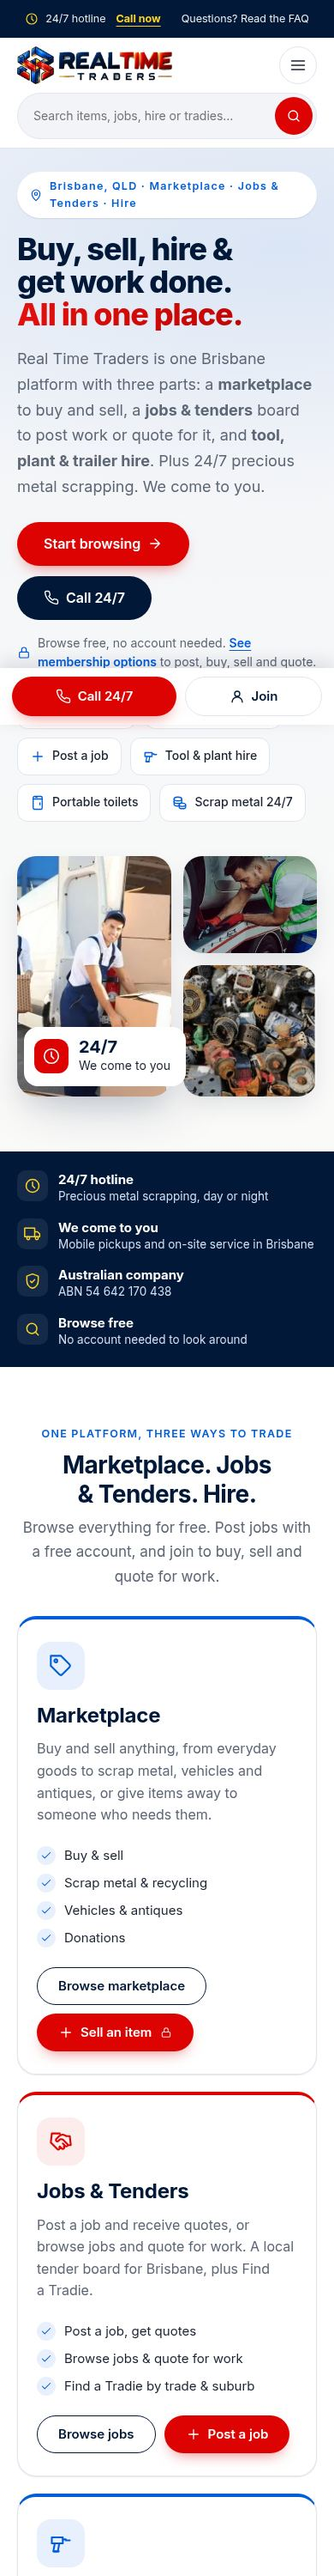
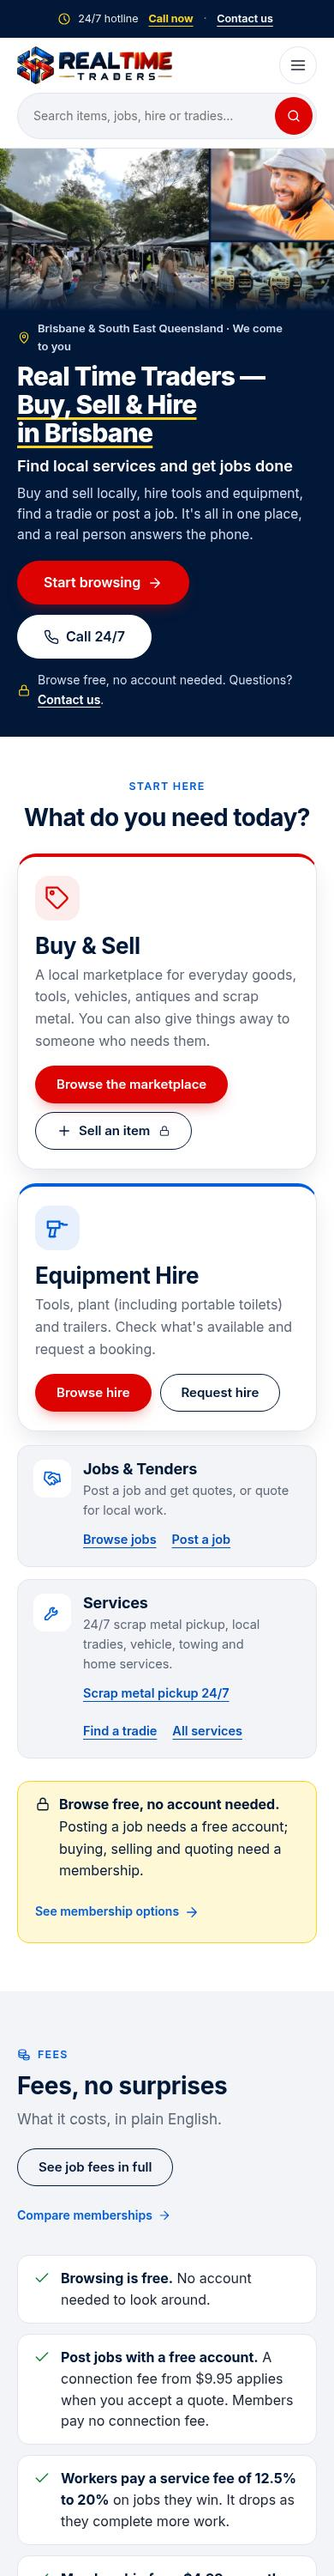
Mobile hero tightening and refreshed screenshots
- Phones: shorter cover photo and tighter hero spacing so Start browsing / Call 24/7 show above the fold
- Refresh index, jobs and services screenshots

diff --git a/css/style.css b/css/style.css
@@ -1246,3 +1246,13 @@ p { text-wrap: pretty; }
 .compare-table tr.is-member td a { color: #14532d; }
 /* Let the job fee tables wrap in the two-column layout so they never need sideways scrolling */
 @media (max-width: 1279px) { .fees .fee-table th, .fees .fee-table td { white-space: normal; } }
+/* Phones: shorter cover photo so the hero buttons sit higher */
+@media (max-width: 767px) {
+  .hero--cover .hero__photo img { height: 190px; max-height: none; object-position: center 30%; }
+  .hero--cover .hero__inner { padding-top: 10px; padding-bottom: 32px; }
+  .hero__eyebrow { font-size: 13px; margin-bottom: 8px; }
+  .hero.hero--cover h1 { font-size: 30px; margin-bottom: 10px; }
+  .hero__sub { font-size: 18px; margin-bottom: 8px; }
+  .hero--cover .hero__lead { font-size: 15.5px; line-height: 1.55; }
+  .hero--cover .hero__ctas { margin: 18px 0 14px; }
+}
